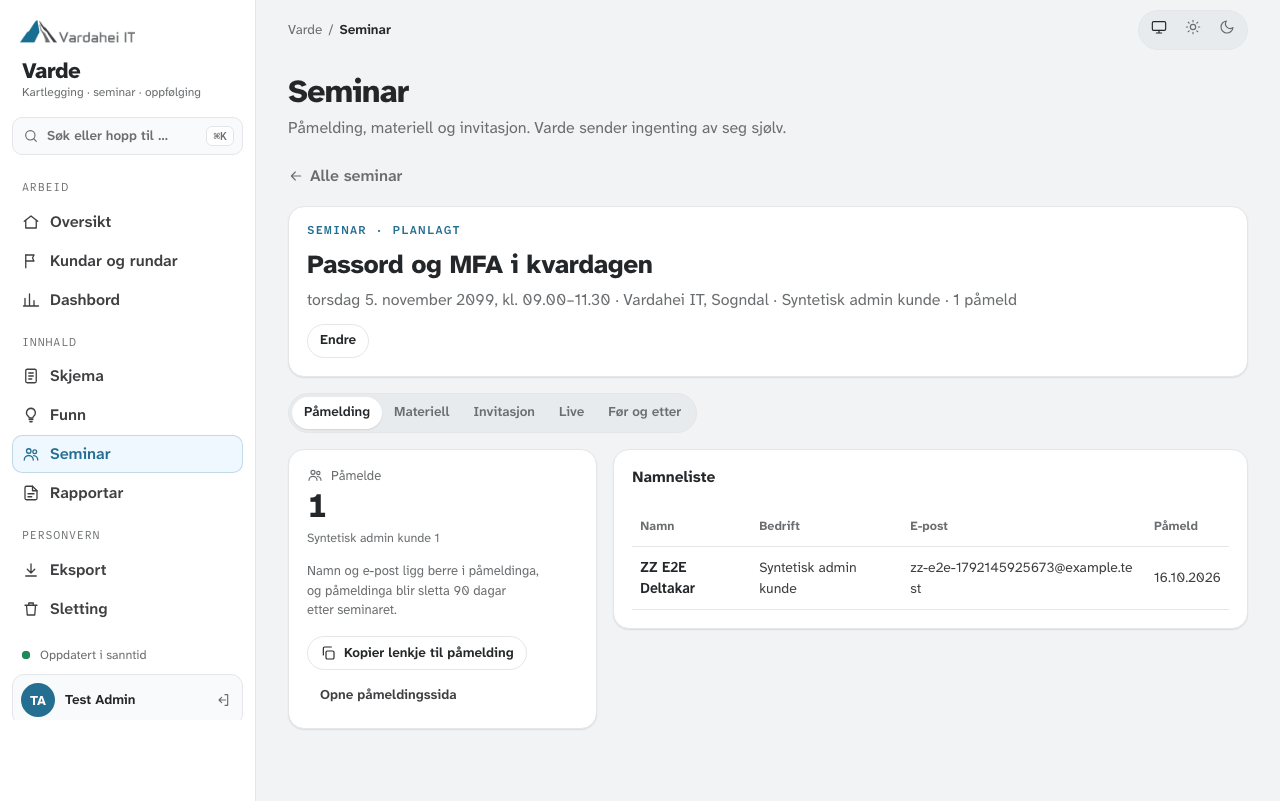
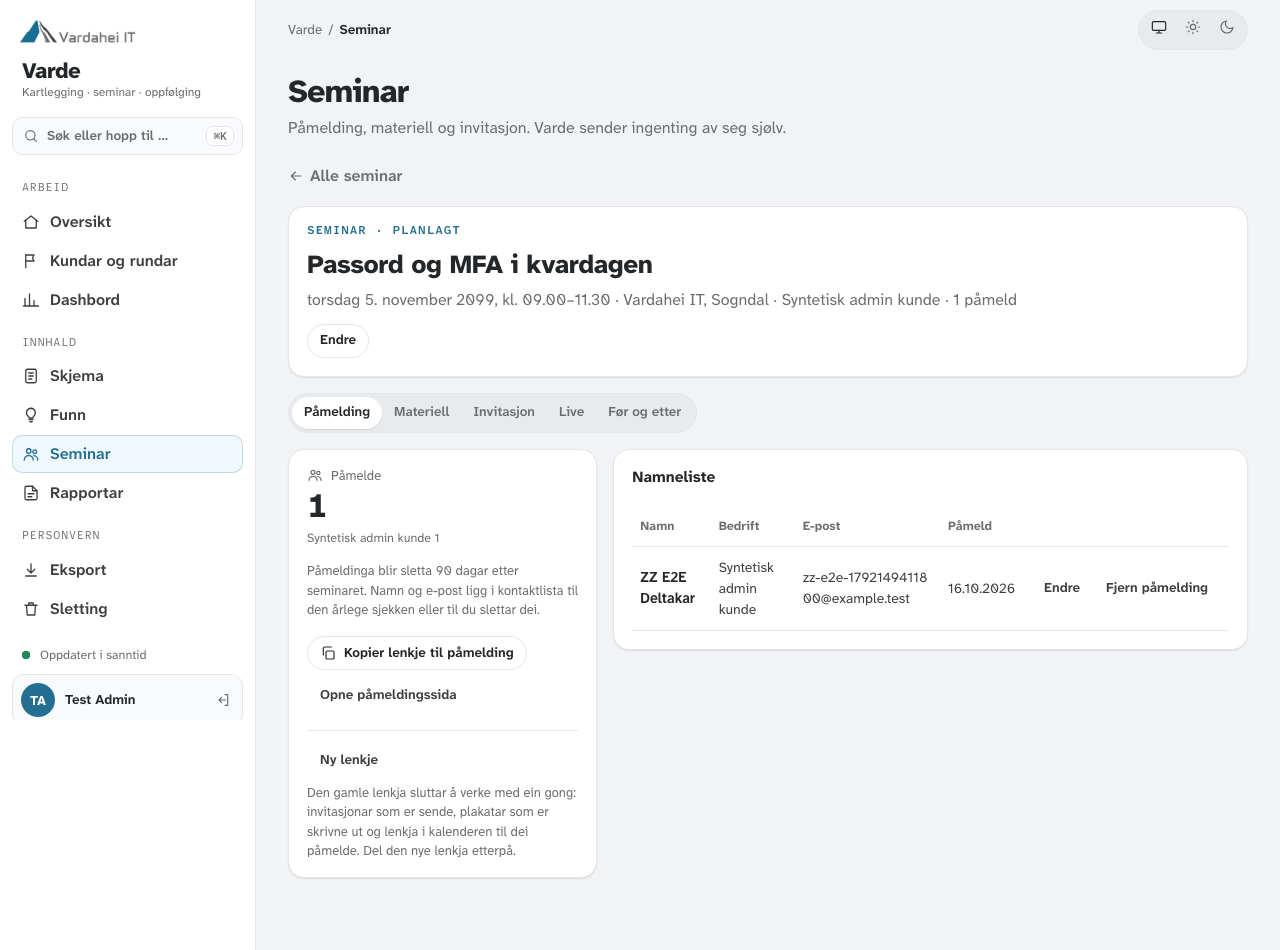
docs 3a: evidence after the acceptance remarks, checklist and context map rows, admin screenshot
Commits of the remarks, what the public form may and may not change, consent on the
registration, «Ny lenkje», 20 registrations per IP, «Fjern påmelding», audited dry runs, the
in-place migration, new nynorsk strings for review and the final local run on fresh databases.
The decision against sending e-mail is dated 11.10 in docs/BESLUTNINGER.md.

diff --git a/docs/varde/evidence/stage-3/3a-evidence.md b/docs/varde/evidence/stage-3/3a-evidence.md
@@ -10,55 +10,69 @@
 | 3.2 | `09df382` | Страница `/s?c=` (второй вход сборки runner), публичный API (просмотр, регистрация, ICS), квоты, honeypot, логи; ICS по RFC 5545 (ical.js в тестах); раздел «Seminar» в админке с «Påmelding» |
 | 3.3 | `c5c7760` | Миграция `20261016130000_seminar_materials` (down.sql); материалы-ссылки в админке и на странице после семинара |
 | 3.10 | `0c7f5c7` | «Invitasjon»: письмо nn/en, ссылка, ICS, A4-плакат с QR, zip «Last ned invitasjon»; AuditLog без кода |
-| закрытие | этот коммит | `invariants:3a`, обход маршрутов по участникам, e2e admin и страницы, правки вёрстки «Påmelding», строки REVIEW-CHECKLIST, AI_CONTEXT_MAP, RETENTION.md, этот evidence, скриншоты |
+| закрытие | `6993610` | `invariants:3a`, обход маршрутов по участникам, e2e admin и страницы, правки вёрстки «Påmelding», строки REVIEW-CHECKLIST, AI_CONTEXT_MAP, RETENTION.md, этот evidence, скриншоты |
+| приёмка (оркестратор) | `6cd8d08` | Публичная форма не переписывает имя, компанию и клиента известного контакта |
+| приёмка, п. 1 | `935ce25` | «Påmelding»: регистрация — 90 дней, имя и e-post — в списке контактов до ежегодной проверки или удаления |
+| приёмка, п. 2 | `cd67776` | Обход маршрутов распаковывает zip и читает каждый файл; мутация «участник в zip» роняет тест |
+| приёмка, п. 3 | `9b26507` | Согласие на регистрации; форма не меняет известный контакт совсем; правка контакта админом (AuditLog) |
+| приёмка, п. 4 | `f6d57e9` | «Ny lenkje» (история hash, «Lenkja er bytt ut», AuditLog); компании на публичной странице по slug |
+| приёмка, п. 5 | `1615567` | 20 регистраций с IP за 10 минут; «Fjern påmelding» (AuditLog), контакт остаётся |
+| приёмка, п. 6 | `854b2ed` | Dry-run удаления по запросу пишет AuditLog (участник и ответы) |
+| evidence | этот коммит | Этот evidence после замечаний, REVIEW-CHECKLIST, AI_CONTEXT_MAP, скриншот админки |
 
 ## Что сделано
 
 **3.1 Сущности и хранение.**
 - Seminar: тема nn/en, начало и конец (instant в базе, Europe/Oslo везде на экране, в тексте и ICS), место, формат `onsite | digital`, клиенты (`seminar_client`), `required_languages ⊆ {nn, en}` с nn, код ссылки — 128 бит base64url, поиск по sha256 (как коды раундов, ADR-009), `sequence` для обновлений в календаре, nullable `round_before/live/after` (заполнит 3c).
-- Contact: имя, e-post (trim + lower case, CHECK, unique), компания (имя клиента или свой текст) и `client_id?`, `role_at_client?`, версия и время согласия, `created_at`, `last_confirmed_at`, `review_flagged_at`.
-- Registration: семинар, контакт, язык, `created_at`; unique (семинар, контакт) = «семинар + e-post».
+- Contact: имя, e-post (trim + lower case, CHECK, unique), компания (имя клиента или свой текст) и `client_id?`, `role_at_client?`, версия и время согласия, с которыми контакт создан, `created_at`, `last_confirmed_at`, `review_flagged_at`.
+- Registration: семинар, контакт, язык, версия и время согласия этой регистрации, `created_at`; unique (семинар, контакт) = «семинар + e-post».
+- Публичная форма создаёт контакт, но известный контакт не меняет совсем: ни имя, компанию и клиента, ни согласие, `last_confirmed_at` и отметку проверки (вход без логина, e-post не подтверждается). Имя и компанию (или клиента) правит админ в «Namneliste» — `PUT /api/admin/contacts/:id`, AuditLog `seminars.contact.update` с именами полей без значений; новый год для контакта начинает только «Stadfest». «Fjern påmelding» удаляет одну регистрацию (AuditLog `seminars.registration.remove`), контакт остаётся до проверки или «Sletting».
 - Action (name, description, seminar_topic) и связь FindingRule → Action — таблица `finding_rule_action (rule_key → action_id)` рядом с неизменяемыми версиями (решение ниже).
 - FindingStatus: `open | in_seminar | closed`, `seminar_id?`, кто и когда; нет строки = `open`. Привязка Finding к семинару (`POST /api/admin/seminars/:id/findings`) ставит `in_seminar` с AuditLog `findings.status` — критерий приёмки 3.1 (тест `seminars.test.ts`).
 - Инвариант ADR-021: у `response` один FK (`round_client`), нет колонок и триггеров про контакт, регистрацию, семинар; у `contact`/`registration` нет ссылок на ответы.
 - Contact и Registration читает и пишет только `modules/privacy/participants.ts` (`PrivacyService.participants`); правило `varde/privacy-only-release` получило второй allow-list (модели `contact`, `registration`, `include`/`select`, raw SQL), selfcheck ловит обход.
-- Retention (ежедневная задача 1.31, одна транзакция, dry-run, идемпотентно): регистрации удаляются через 90 дней после конца семинара; контакты по таймеру не удаляются — через год после последнего подтверждения задача ставит `review_flagged_at`; админ видит отмеченных («Kontaktar» в разделе «Seminar», чтение под AuditLog) и нажимает «Stadfest» или удаляет. Журнал удаления по сроку — запись AuditLog `retention.run` со счётчиками всех классов, если что-то удалено или отмечено.
-- Удаление по запросу: область `participant` в `retention.forget` и на «Sletting» («Deltakar på seminar (e-post)»): по нормализованному e-post удаляется контакт и все его регистрации; DeletionRequest с `scope_ref = {contact: <id>}` и ParticipantTombstone (id контакта, число регистраций) — без имени и e-post; AuditLog `retention.forget` со счётчиками; `ledger apply-db` после restore удаляет контакт снова.
+- Retention (ежедневная задача 1.31, одна транзакция, dry-run, идемпотентно): регистрации удаляются через 90 дней после конца семинара; контакты по таймеру не удаляются — через год после создания или последнего «Stadfest» задача ставит `review_flagged_at`; админ видит отмеченных («Kontaktar» в разделе «Seminar», чтение под AuditLog) и нажимает «Stadfest» или удаляет. Журнал удаления по сроку — запись AuditLog `retention.run` со счётчиками всех классов, если что-то удалено или отмечено.
+- Удаление по запросу: область `participant` в `retention.forget` и на «Sletting» («Deltakar på seminar (e-post)»): по нормализованному e-post удаляется контакт и все его регистрации; DeletionRequest с `scope_ref = {contact: <id>}` и ParticipantTombstone (id контакта, число регистраций) — без имени и e-post; AuditLog `retention.forget` со счётчиками; `ledger apply-db` после restore удаляет контакт снова. Dry-run (и для ответов) пишет AuditLog `retention.forget.preview`: кто и счётчики, без e-post, инициалов, клиента и основания.
 
 **3.2 Регистрация.**
 - `/s?c=<код>` — вторая страница сборки runner (Vite multi-page): те же токены Vardestien, шрифты, та же CSP и заголовки, что `/r`; внешних запросов нет (e2e это проверяет). Языки — `required_languages` семинара, нюношк по умолчанию; переключатель как в runner.
-- Поля: имя, компания (радиокнопки клиентов семинара + «Anna bedrift» со своим текстом), e-post, согласие (короткий текст у галочки, полный — по «Les meir …»; версия `samtykke-v1` приходит с сервера и сохраняется у контакта; тест фиксирует hash текстов версии). Скрытое поле «Nettstad» — honeypot.
+- Поля: имя, компания (радиокнопки клиентов семинара + «Anna bedrift» со своим текстом), e-post, согласие (короткий текст у галочки, полный — по «Les meir …»; версия `samtykke-v1` приходит с сервера и сохраняется на регистрации (и у контакта, если он создан сейчас); тест фиксирует hash текстов версии). Компанию выбирают по slug клиента — id базы публичный API не отдаёт. Скрытое поле «Nettstad» — honeypot.
 - «Du er påmeld»: тема, дата, место, «Legg i kalenderen» (ICS), фокус на заголовок; переход — подъём контента (useEnter), первый экран после загрузки стоит на месте, как в опроснике.
-- API без сессии, код только в `Authorization: Bearer` (никогда в query сервера): `GET /api/public/seminar`, `POST /api/public/seminar/registrations`, `GET /api/public/seminar/calendar`. Лимиты из `config/quotas.json`: `seminar_registrations_max` 300 на семинар (счёт в базе под блокировкой строки семинара, до проверки повтора), окна 10 минут `seminar_per_ip_per_10min` 100 и `seminar_global_per_10min` 300 (память процесса). Повтор с тем же e-post и honeypot — тот же ответ `{registered: true}` без записи; неверный ввод — сообщение по полю, без сведений о других людях. Ошибки Prisma в лог не попадают (503 с общим текстом). Успешные запросы `/s` и `/api/public/*` не пишутся в лог, ошибки — только путь и статус.
+- API без сессии, код только в `Authorization: Bearer` (никогда в query сервера): `GET /api/public/seminar`, `POST /api/public/seminar/registrations`, `GET /api/public/seminar/calendar`. Лимиты из `config/quotas.json`: `seminar_registrations_max` 300 на семинар (счёт в базе под блокировкой строки семинара, до проверки повтора), окна 10 минут `seminar_per_ip_per_10min` 20 (офис за одним NAT укладывается; один IP больше не заполняет семинар за полчаса) и `seminar_global_per_10min` 300 (память процесса). Повтор с тем же e-post и honeypot — тот же ответ `{registered: true}` без записи; неверный ввод — сообщение по полю, без сведений о других людях. Ошибки Prisma в лог не попадают (503 с общим текстом). Успешные запросы `/s` и `/api/public/*` не пишутся в лог, ошибки — только путь и статус.
 - ICS: VCALENDAR/VEVENT, UID `seminar-<id>@<host>`, DTSTAMP, DTSTART/DTEND в UTC, SEQUENCE, SUMMARY, LOCATION, DESCRIPTION со ссылкой, URL; CRLF, folding по 75 октетам без разрыва UTF-8, экранирование. Тесты разбирают файл ical.js (dev-зависимость, точная версия 2.2.1).
 
 **3.3 Материалы.** Заголовок и http(s)-ссылка (CHECK в базе), без загрузки файлов. Админ добавляет и убирает (AuditLog). `/s?c=` показывает материалы только после конца семинара — всем, у кого есть ссылка; до конца API их не отдаёт.
 
 **3.10 Пакет приглашения.** Вкладка «Invitasjon»: письмо на нюношке (и английском, если он есть у семинара) — редактируемое, «Kopier tekst», ссылка с «Kopier lenkje», «Last ned invitasjon» (zip: `LES-MEG.txt`, `invitasjon.txt` / `invitation-en.txt`, `lenkje-til-pamelding.txt`, `seminar.ics` / `seminar-en.ics`, `plakat.html` / `plakat-en.html`), «Kalenderfil (ICS)», «Opne plakaten (A4)» (`/admin/poster/seminar/:id`, узкая CSP плакатов раундов). QR строит `qrcode-generator` 1.4.4 (уже был в зависимостях), логотип — data URI, ничего не грузится снаружи. Varde ничего не отправляет; скачивание — AuditLog `seminars.invitation` с префиксом hash кода.
 
-**Админка.** Раздел «Seminar» в группе «Innhald» (иконка `folk`, после «Funn»): список (ближайшие сверху, потом прошедшие; дата, тема, время, место, клиенты, «N påmelde»), «Nytt seminar», карточка «Kontaktar» (ежегодная проверка), страница семинара с «Endre» и вкладками «Påmelding» (число по клиентам, ссылка, «Vis namnelista» — список по запросу, AuditLog), «Materiell», «Invitasjon», «Live» и «Før og etter» — «Kjem i neste steg». SSE-тема `seminars` обновляет счётчики сразу после регистрации.
+**Админка.** Раздел «Seminar» в группе «Innhald» (иконка `folk`, после «Funn»): список (ближайшие сверху, потом прошедшие; дата, тема, время, место, клиенты, «N påmelde»), «Nytt seminar», карточка «Kontaktar» (ежегодная проверка), страница семинара с «Endre» и вкладками «Påmelding» (число по клиентам, ссылка, «Ny lenkje» в два нажатия с предупреждением, «Vis namnelista» — список по запросу под AuditLog, в строке «Endre» контакта и «Fjern påmelding»), «Materiell», «Invitasjon», «Live» и «Før og etter» — «Kjem i neste steg». SSE-тема `seminars` обновляет счётчики сразу после регистрации.
+
+**Ny lenkje (ADR-009).** `POST /api/admin/seminars/:id/reissue`: новый код, старый hash — в `revoked_seminar_code`; старая ссылка, отправленные приглашения, плакаты и ссылки в календарях участников сразу дают «Lenkja er bytt ut» (отдельный экран на `/s`). AuditLog `seminars.code.reissue` с префиксами hash, без кода.
 
 ## Проверки (локально, Node 25, Postgres `varde-dev-postgres-1`, базы `varde_3a`, `varde_e2e_3a`, `varde_e2e_admin_3a`)
 
-- `pnpm check` — exit 0: api 164 (25 файлов), admin 35, runner 92, eslint-rules 70, schema 59, rules 81, ui 18, docs 23 (+1 skipped), invariants 16, parity 17, eval 50 (+2 skipped), convert 13, context-budget 6; lint и build всех пакетов.
-- `pnpm budget` — 561 файл, 0 больше 700; `pnpm budget:selfcheck`, `pnpm lint:privacy:selfcheck` (теперь и обход `registration`) — ok; `pnpm secrets` — утечек нет.
-- Integration целиком (`varde_3a`, под `lockf /private/tmp/varde-e2e.lock`): 58 файлов, 378 тестов зелёные; 2 файла пропущены по окружению, как и раньше; `forget-restore` отдельно с `VARDE_RESTORE_DOCKER=1` (как в CI) — зелёный.
+Итоговый прогон — после замечаний приёмки, на последнем коммите кода `854b2ed`, все три базы пересозданы пустыми (миграция правлена на месте):
+
+- `pnpm check` — exit 0: api 164, admin 38, runner 93, eslint-rules 70, schema 59, rules 81, ui 18, docs 23 (+1 skipped), invariants 16, parity 17, eval 50 (+2 skipped), convert 13, context-budget 6; lint и build всех пакетов.
+- `pnpm budget` — 562 файла, 0 больше 700; `pnpm budget:selfcheck`, `pnpm lint:privacy:selfcheck` (и обход `registration`) — ok; `pnpm secrets` — утечек нет.
+- Integration целиком на свежей `varde_3a` с `VARDE_RESTORE_DOCKER=1` (как в CI), под `lockf /private/tmp/varde-e2e.lock`: 59 файлов, 383 теста зелёные; пропущен только `cutover/rehearsal` (нужна `VARDE_REHEARSAL_DATABASE`), как и раньше.
 - `pnpm invariants:3a` — 7/7 ok; `pnpm invariants:5` — 5/5 ok; `pnpm invariants:2a` — 5/5 ok.
-- e2e admin — 38/38 (было 37: плюс `seminar.spec.ts`), e2e runner — 61/61 (было 58: плюс `seminar.spec.ts` ×3); оба под `lockf` на своих базах. Первый полный прогон admin поймал два заголовка «Seminar» на странице (`shell.spec.ts`, strict mode) — заголовок карточки стал «Alle seminar»; итоговые полные прогоны — после всех правок кода.
+- e2e admin — 38/38 (сценарий семинара теперь с «Ny lenkje»: старая ссылка показывает «Lenkja er bytt ut», и с правкой контакта), e2e runner — 61/61; оба под `lockf` на свежих базах.
+- До замечаний: первый полный прогон admin поймал два заголовка «Seminar» на странице (`shell.spec.ts`, strict mode) — заголовок карточки стал «Alle seminar».
 - Размер runner: весь JS 64 КБ gzip (лимит 100), страница семинара — 5 КБ своего JS плюс общий чанк. Каскад CSS опросника после разделения сборки на две страницы побайтно тот же (сравнение собранного CSS до и после).
 - Движение (кадры через requestAnimationFrame, 360 px): первый экран после загрузки не двигается и не мерцает; «Les meir» раскрывается монотонно (высота 0 → 534, ни одного кадра назад); «Meld meg på» → «Sender …» → «Du er påmeld»: значок и текст въезжают с 26 px до 0 без рывков, прокрутка уходит наверх одним шагом, потому что короткий экран сменяет длинную форму; фокус — на «Du er påmeld».
-- Мутации: без моделей участников в lint правило пропускает `registration`/`contact` в отчёте и в `privacy.service` — 3 теста правила падают; со счётчиками по свободному тексту компании обход маршрутов падает (так и было найдено, решение 5 ниже); без приведения e-post к нижнему регистру повтор с адресом в другом регистре и удаление по такому адресу не проходят — тесты «repeat» и «Deltakar» падают.
+- Мутации: без моделей участников в lint правило пропускает `registration`/`contact` в отчёте и в `privacy.service` — 3 теста правила падают; со счётчиками по свободному тексту компании обход маршрутов падает (так и было найдено, решение 5 ниже); без приведения e-post к нижнему регистру повтор с адресом в другом регистре и удаление по такому адресу не проходят — тесты «repeat» и «Deltakar» падают; данные участника, положенные в zip приглашения, обход маршрутов теперь находит и падает (по замечанию приёмки раньше он смотрел сжатые байты zip).
 - CI не запускался: GitHub Actions заблокирован лимитом расходов, push не делался.
 
 ## Отклонения и решения
 
 1. **FindingRule → Action** — таблица `finding_rule_action (rule_key PK → action_id)`, а не `action_id` в definition: версии правил неизменяемы (триггер), связь действует на все версии ключа, её смена не пишет новую версию (AuditLog `findings.rule_action`). UI для Action и привязки Finding в 3a нет — только API и тесты; естественное место — «Funn» и 4.1.
 2. **Участники в модуле privacy.** Требование «выдача строк только через privacy» распространено на Contact и Registration: `participants.ts` — единственный файл с доступом (lint с отдельным allow-list, чтобы этот файл не получил доступ к Response). Отчёты, экспорт, архив, дашборд, ассистент и будущий Atlas физически не могут читать участников.
-3. **«Семинар + e-post»** = unique (seminar, contact) + unique `contact.email`. Контакт общий для семинаров: новая регистрация того же человека на другой семинар обновляет имя, компанию и согласие; повтор на тот же семинар ничего не меняет.
+3. **«Семинар + e-post»** = unique (seminar, contact) + unique `contact.email`. Контакт общий для семинаров. Публичная форма известный контакт не меняет никак (замечание приёмки): ни имя, компанию и клиента, ни согласие, `last_confirmed_at` и отметку проверки; согласие каждой регистрации хранится на ней самой. Повтор на тот же семинар — тот же ответ без записи. Опечатку в имени или компании исправляет админ («Endre» в «Namneliste»).
 4. **`role_at_client`** есть в модели (ARCHITECTURE), но на публичной странице не спрашивается: в задании четыре поля, минимизация данных.
-5. **Компания хранится у контакта**, не у регистрации (модель ARCHITECTURE). В счётчиках раздела — только клиенты Varde, введённые участниками названия идут как «andre»: всё, что ввёл человек, видно только в списке под AuditLog. Если человек позже записался от другой компании, старые семинары считают его по новой.
+5. **Компания хранится у контакта**, не у регистрации (модель ARCHITECTURE). В счётчиках раздела — только клиенты Varde, введённые участниками названия идут как «andre»: всё, что ввёл человек, видно только в списке под AuditLog. Если человек позже записался от другой компании, контакт остаётся с прежней (форма его не меняет), пока админ не поправит.
 6. **Журнал удаления по сроку** — AuditLog `retention.run` со счётчиками (у существующих классов журнала не было; tombstone для таймерных классов не пишутся — ADR-017: после restore задача удаляет те же строки снова). AuditLog живёт 12 месяцев.
-7. **Ежегодная проверка контактов**: в `retention.json` у `contact` добавлено `review: yearly`; отметка ставится через год после `last_confirmed_at` (создание, новая регистрация или «Stadfest»).
+7. **Ежегодная проверка контактов**: в `retention.json` у `contact` добавлено `review: yearly`; отметка ставится через год после `last_confirmed_at` (создание контакта или «Stadfest»); новая регистрация и правка админом её не снимают.
 8. **Регистрация открыта до конца семинара** (`ends_at`); после — 410 «Påmeldinga er stengd.» и фаза «Seminaret er over» с материалами.
 9. **Календарь на публичной странице** скачивается `fetch` с bearer и сохраняется из памяти (blob): код не попадает в URL, который видит сервер. На iPhone Safari файл, скорее всего, уйдёт в «Файлы», а не сразу в «Календарь» — не проверено на устройстве.
 10. **ICS в UTC** без VTIMEZONE (разрешено заданием); Outlook и телефоны показывают местное время.
@@ -67,11 +81,14 @@
 13. **Время семинара в форме** — один день (дата, «Frå», «Til»); многодневный семинар модель умеет, форма — нет.
 14. Тестовая поддержка `resetImports` теперь удаляет и `participant_tombstone` (она чистит все запросы удаления).
 15. **Плакат** — по адресу `/admin/poster/seminar/:id` под исключением CSP плакатов раундов в `admin/static.ts`.
+16. **Миграция `20261016120000_seminars` правлена на месте** после приёмки (она ещё не выкачена): согласие на `registration`, таблица `revoked_seminar_code`. `down.sql` дополнен, `migrations.test` зелёный; все локальные базы пересозданы с нуля.
+17. **История заменённых кодов семинара** (`revoked_seminar_code`) — только hash, без персональных данных, живёт вместе с семинаром (как `revoked_round_code` у раундов).
+18. **Dry-run удаления ответов** тоже пишет `retention.forget.preview` — это одна запись в той же транзакции, дёшево; дополнительно проверено в `forget.test.ts`.
 
 ## Приватность и риски
 
 - Contact и Registration — персональные данные (ADR-017): только админ-сессия; список семинара и список «на проверку» пишут AuditLog `privacy.participants` (кто, семинар, число) в той же транзакции; в AuditLog, журнале удалений и логах нет имён и e-post (тесты). Обход всех зарегистрированных маршрутов с синтетическим участником (`3a-participants.test.ts`) находит его только в двух каналах.
-- Нет подтверждения e-post (почта не отправляется по решению 11.10): человек со ссылкой может записать чужой адрес; при записи на другой семинар — переписать имя и компанию существующего контакта. Последствия малы, но риск есть.
+- Нет подтверждения e-post (автоотправки почты нет — решение 11.10 в `docs/BESLUTNINGER.md`, строка «автоотправку через Microsoft Graph не делаем»): человек со ссылкой может записать на семинар чужой адрес. Если адрес новый — появится контакт с введёнными данными; если известный — меняется только список регистраций, сам контакт форма не трогает. Лишнюю регистрацию админ убирает «Fjern påmelding», контакт — «Sletting».
 - Основание «Grunngjeving» при удалении — свободный текст и хранится в журнале бессрочно; страница просит не писать туда имя и e-post.
 - Разница во времени ответа между новой регистрацией и повтором (лишние записи в базу) — незначительный побочный канал.
 - Реестр обработки (`docs/varde/personvern/behandlingsregister-varde.md`) не содержит записи о регистрации на семинары — нужен текст.
@@ -83,7 +100,8 @@
 - **Согласие `samtykke-v1`** (`varde/apps/api/src/modules/seminars/consent.ts`): короткий текст «Eg samtykkjer i at Vardahei IT lagrar namnet, bedrifta og e-postadressa mi, slik at dei kan halde styr på påmeldinga og invitere meg til seinare seminar.» и пять пунктов полного текста (что храним и зачем; регистрация удаляется через 90 дней; контакт — пока есть сотрудничество и нет просьбы удалить, раз в год проверяем; не попадает в отчёты и не передаётся; посмотреть или удалить — post@vardahei.no). Изменение текста = новая версия.
 - **Письмо, плакат, LES-MEG, ICS** (`varde/apps/api/src/modules/seminars/invitation.ts`, `public-seminar.service.ts`): «Vardahei IT inviterer til seminaret «…».», «Meld deg på her, det tek eitt minutt:», «Lenkja går til …, så du kan trygt opne ho. Når du har meldt deg på, kan du leggje seminaret inn i kalenderen. Etter seminaret finn du lysark og lenkjer på same sida.», «Velkomen!»; «Opne kameraet på mobilen», «Sikt på ruta», «Meld deg på, det tek eitt minutt», «Seminar for …», «Spørsmål?»; строки `LES-MEG.txt`; описание в календаре «Seminar frå Vardahei IT. Meld deg på her: …» и «… Etter seminaret finn du lysark og lenkjer på påmeldingssida: …».
 - **Админка**: введение раздела «Påmelding, materiell og invitasjon. Varde sender ingenting av seg sjølv.», «Alle seminar», «Nytt seminar», «Ingen seminar enno.», «Planlagt», «Gjennomført», «N påmeld / påmelde», «Kontaktar», «… ventar på den årlege sjekken.», «Kontaktar blir ikkje sletta av seg sjølv. Ein gong i året sjekkar de at samarbeidet og samtykket framleis gjeld. Slett ein kontakt under «Sletting».», «Vis kontaktane», «sist sjekka …», «Stadfest»; форма «Tema», «Språk på påmeldingssida», «Tema på engelsk», «Dato», «Frå», «Til», «Norsk tid. Påmeldinga stengjer når seminaret er slutt.», «På staden», «Stad», «Kvar (til dømes Teams)», «Kundar», «Dei som melder seg på, kan velje mellom desse eller skrive inn ei anna bedrift.», «Lag seminaret», «Lagre endringane»; вкладки и карточки «Påmelde», «andre N», «Namn og e-post ligg berre i påmeldinga, og påmeldinga blir sletta 90 dagar etter seminaret.», «Kopier lenkje til påmelding», «Opne påmeldingssida», «Namneliste», «Vis namnelista», «Lista har namn og e-post. Kvar gong nokon opnar ho, blir det skrive i loggen.», «Ingen har meldt seg på enno.», «Kjem i neste steg» с пояснениями к «Live» и «Før og etter», «Synleg for deltakarane», «Synleg etter seminaret», «Ikkje noko materiell enno.», «Deltakarane finn lysark og lenkjer på påmeldingssida når seminaret er over. Alle som har lenkja til sida, ser dei, så legg ikkje ut noko som ikkje kan delast.», «Legg til materiell», «Teksten er skriven for at du eller leiaren hos kunden sender han frå eigen e-post eller i Teams. Varde sender ingenting sjølv.», «Tekst til dei som skal inviterast», «Pakken har teksten, lenkja, kalenderfila og ein A4-plakat med QR-kode …», «Last ned invitasjon», «Kalenderfil (ICS)», «Opne plakaten (A4)», «Plakaten opnar i ei ny fane, klar til utskrift. QR-koden er laga i Varde og går rett til påmeldinga.»; «Sletting»: «Deltakar på seminar (e-post)», «Kontakten og alle påmeldingane til personen blir sletta. Skriv ikkje namn eller e-post i grunngjevinga.», «Kontakten og N påmelding(ar) blir sletta.», «Fann ingen deltakar med den e-postadressa.», «Deltakaren er sletta.»
-- **Ошибки API**: «Lenkja er ikkje gyldig.», «Påmeldinga er stengd.», «Påmeldinga kom ikkje fram. Prøv igjen om litt.», «Seminaret må slutte etter at det byrjar.», «Skriv temaet på engelsk òg, eller ta bort engelsk.», «Teksten har teikn som ikkje kan brukast. Skriv han på nytt.», «Lenkja må byrje med https:// (eller http://).», «Adressa til Varde (PUBLIC_URL) er ikkje sett opp.» и короткие «… finst ikkje.».
+- **После приёмки**: «Påmeldinga blir sletta 90 dagar etter seminaret. Namn og e-post ligg i kontaktlista til den årlege sjekken eller til du slettar dei.»; «Ny lenkje», «Stadfest ny lenkje», «Den gamle lenkja sluttar å verke med ein gong: invitasjonar som er sende, plakatar som er skrivne ut og lenkja i kalenderen til dei påmelde. Del den nye lenkja etterpå.», «Ny lenkje er laga»; «Endre», «Endre kontakten», «Kunde», «Lagre kontakten», «Endringa gjeld kontakten i alle seminar. E-posten kan ikkje endrast.», «Vel ein kunde eller skriv namnet på bedrifta.»; «Fjern påmelding», «Stadfest», «Fjern påmeldinga til …», «Ingen er påmelde no.»; на странице `/s` — «Lenkja er bytt ut», «Det er laga ei ny lenkje til dette seminaret. Spør den som sende deg invitasjonen om den nye, eller ta kontakt med oss.» (и английский); ошибки «Påmeldinga finst ikkje.», «Kunden finst ikkje.».
+- **Ошибки API**: «Lenkja er ikkje gyldig.», «Lenkja er bytt ut. Spør den som sende deg ho om den nye.» (как у раундов), «Påmeldinga er stengd.», «Påmeldinga kom ikkje fram. Prøv igjen om litt.», «Seminaret må slutte etter at det byrjar.», «Skriv temaet på engelsk òg, eller ta bort engelsk.», «Teksten har teikn som ikkje kan brukast. Skriv han på nytt.», «Lenkja må byrje med https:// (eller http://).», «Adressa til Varde (PUBLIC_URL) er ikkje sett opp.» и короткие «… finst ikkje.».
 
 ## Открытые вопросы для Oleksandr
 
@@ -94,4 +112,4 @@
 
 ## Скриншоты
 
-`docs/varde/evidence/stage-3/3a/`: `pamelding-360-nn-light.png` (страница регистрации, телефон, нюношк), `pamelding-1280-en-dark.png` (ноутбук, английский, тёмная тема), `pameld-360-nn-light.png` («Du er påmeld»), `admin-pamelding-1280-light.png` (вкладка «Påmelding» с открытой «Namneliste»). Все — из e2e на синтетических данных.
+`docs/varde/evidence/stage-3/3a/`: `pamelding-360-nn-light.png` (страница регистрации, телефон, нюношк), `pamelding-1280-en-dark.png` (ноутбук, английский, тёмная тема), `pameld-360-nn-light.png` («Du er påmeld»), `admin-pamelding-1280-light.png` (вкладка «Påmelding» с «Ny lenkje» и открытой «Namneliste» — в строке «Endre» и «Fjern påmelding»; снят заново после замечаний). Все — из e2e на синтетических данных.

diff --git a/docs/varde/REVIEW-CHECKLIST.md b/docs/varde/REVIEW-CHECKLIST.md
@@ -159,9 +159,11 @@
 | --- | --- |
 | Response не ссылается на Contact, Registration и Seminar: единственный FK `round_client`, нет таких колонок и триггеров; Contact и Registration не ссылаются на Response | `varde/apps/api/test/seminars/seminars.test.ts`, `varde/apps/api/test/invariants/3a-participants.test.ts` |
 | Contact и Registration читает и пишет только `modules/privacy/participants.ts` (`PrivacyService.participants`): lint `varde/privacy-only-release` со своим allow-list отклоняет модели, `include`/`select` и raw SQL `contact`/`registration` в остальных файлах | `varde/tools/eslint-rules/test/privacy-only-release.test.ts`, `pnpm lint:privacy:selfcheck` |
-| Имена, компании (введённые участником) и e-post выходят только через список семинара и список «на ежегодную проверку»: админ-сессия, AuditLog `privacy.participants` в той же транзакции; обход всех маршрутов (отчёты, экспорт, архив, дашборд, публичная страница) их не находит; в счётчиках по семинару — только клиенты Varde и «andre» | `varde/apps/api/test/invariants/3a-participants.test.ts`, `varde/apps/api/test/seminars/participants.test.ts` |
-| Регистрация: повтор с тем же e-post и honeypot дают тот же ответ без записи; лимит на семинар проверяется до проверки повтора; ошибки не говорят, зарегистрирован ли человек; в логах нет имён, e-post и кода; успешные запросы `/s` и `/api/public/*` не пишутся в лог | `varde/apps/api/test/seminars/registration.test.ts`, `varde/apps/api/test/runner/static.test.ts` |
-| Код ссылки семинара — 128 бит, ищется по hash, только в Authorization; в AuditLog только префикс hash | `seminars.test.ts`, `invitation.test.ts` |
+| Имена, компании (введённые участником) и e-post выходят только через список семинара и список «на ежегодную проверку»: админ-сессия, AuditLog `privacy.participants` в той же транзакции; обход всех маршрутов (отчёты, экспорт, архив, дашборд, публичная страница; zip распаковывается и читается по файлам) их не находит; в счётчиках по семинару — только клиенты Varde и «andre» | `varde/apps/api/test/invariants/3a-participants.test.ts`, `varde/apps/api/test/seminars/participants.test.ts` |
+| Регистрация: повтор с тем же e-post и honeypot дают тот же ответ без записи; лимит на семинар проверяется до проверки повтора; окно 20 регистраций с IP за 10 минут; ошибки не говорят, зарегистрирован ли человек; в логах нет имён, e-post и кода; успешные запросы `/s` и `/api/public/*` не пишутся в лог | `varde/apps/api/test/seminars/registration.test.ts`, `varde/apps/api/test/runner/static.test.ts` |
+| Публичная форма не меняет известный контакт: ни имя, компанию и клиента, ни согласие, `last_confirmed_at` и отметку ежегодной проверки; согласие (версия и время) хранится на регистрации; отметку снимает только «Stadfest»; имя и компанию правит админ (AuditLog с именами полей, без значений); «Fjern påmelding» удаляет одну регистрацию (AuditLog), контакт остаётся | `varde/apps/api/test/seminars/participants.test.ts`, `varde/apps/admin/test/seminar.test.tsx` |
+| Код ссылки семинара — 128 бит, ищется по hash, только в Authorization; «Ny lenkje» (два нажатия, предупреждение о плакатах и календарях) — старый код сразу даёт «Lenkja er bytt ut» (история hash), AuditLog с префиксами hash; публичный API выбирает компанию по slug, без id базы | `registration.test.ts`, `seminars.test.ts`, `invitation.test.ts` |
+| Dry-run удаления по запросу (участник и ответы) пишет AuditLog `retention.forget.preview`: кто и счётчики, без e-post, инициалов, клиента и основания | `participants.test.ts`, `varde/apps/api/test/retention/forget.test.ts` |
 | Retention: регистрации удаляются через 90 дней после конца семинара (dry-run, идемпотентно, журнал `retention.run` со счётчиками); контакты по таймеру не удаляются, раз в год получают отметку; удаление по запросу (область `participant`, по e-post) — запись в журнале удалений и tombstone только с id контакта, AuditLog, `ledger apply-db` удаляет восстановленного контакта | `participants.test.ts`, `varde/apps/api/test/retention/jobs.test.ts` |
 | Статус Finding меняется при привязке к семинару (`in_seminar`), строки Finding и версии правил не меняются; связь правила с Action — по ключу, без новой версии | `seminars.test.ts` |
 | Материал — только http(s)-ссылки (CHECK), на странице — только после конца семинара | `varde/apps/api/test/seminars/materials.test.ts` |

diff --git a/docs/varde/AI_CONTEXT_MAP.md b/docs/varde/AI_CONTEXT_MAP.md
@@ -36,7 +36,7 @@
 | Архив раунда: экспорт и restore (5.2) | `varde/apps/api/src/modules/exports/round-archive.ts`, `varde/apps/api/src/modules/exports/round-archive.service.ts`, `varde/apps/api/src/modules/privacy/archive.ts`, `varde/apps/api/src/modules/privacy/prisma-snapshot-store.ts`, `varde/apps/api/src/cli/archive.ts`, `varde/apps/api/test/exports/round-archive.test.ts`, `varde/apps/api/test/exports/round-archive-format.test.ts`; ADR-017/020/021 |
 | Дизайн и движение (Vardestien) | `docs/varde/design/README.md`, `docs/varde/design/vardestien/`, `varde/apps/runner/src/landscape/landscape.ts`, `varde/apps/runner/src/scene.ts`, `varde/apps/runner/e2e/motion.spec.ts`, `varde/packages/ui/src/motion.ts`, `varde/packages/ui/src/tokens.css`, `varde/packages/ui/src/base.css`, PRINCIPLES «Визуальный стиль», `docs/varde/STAGES.md` 1e |
 | Правила выводов (FindingRule): версии, предпросмотр, страница «Funn» | `varde/apps/api/src/modules/findings/` (`finding-rule.ts`, `findings.service.ts` — сохранённые Finding release и `finding_set`, `rule-versions.service.ts`, `rule-preview.service.ts`, `rule-choices.ts`, `explain.ts`, `leader-rules.ts`), `varde/apps/api/src/modules/dashboard/leader-view.ts`, `varde/config/seed/findings/`, `varde/apps/api/test/findings/`, `varde/apps/api/test/reports/client-report-versions.test.ts`, `varde/apps/api/src/modules/exports/round-archive.ts` (`finding_sets`), `varde/apps/admin/src/funn-page.tsx`, `varde/apps/admin/src/funn-editor.tsx`, `varde/apps/admin/src/funn-preview.tsx`, `varde/apps/admin/src/funn-fields.tsx`, `varde/apps/admin/src/funn-models.ts`, `varde/apps/admin/e2e/funn.spec.ts`; ADR-020/021/026 |
-| Семинары: сущности, админка, статус Finding, Action (3.1) | `varde/apps/api/src/modules/seminars/` (`seminars.service.ts`, `seminars.controller.ts`, `seminar-input.ts`, `finding-status.service.ts`, `when.ts`), `varde/apps/api/prisma/schema.prisma` (Seminar … FindingStatus), `varde/apps/admin/src/seminar-page.tsx`, `seminar-view.tsx`, `seminar-form.tsx`, `seminar-models.ts`, `varde/apps/api/test/seminars/seminars.test.ts`, `varde/apps/admin/test/seminar.test.tsx`, `docs/varde/design/vardestien/admin.js` (`PAGES.seminar`); ADR-009/017/021 |
+| Семинары: сущности, админка, статус Finding, Action (3.1) | `varde/apps/api/src/modules/seminars/` (`seminars.service.ts`, `seminars.controller.ts`, `seminar-input.ts`, `finding-status.service.ts`, `when.ts`), `varde/apps/api/prisma/schema.prisma` (Seminar … FindingStatus), `varde/apps/admin/src/seminar-page.tsx`, `seminar-view.tsx`, `seminar-form.tsx`, `seminar-participants.tsx` (namneliste, правка контакта, «Fjern påmelding»), `seminar-models.ts`, `varde/apps/api/test/seminars/seminars.test.ts`, `varde/apps/admin/test/seminar.test.tsx`, `docs/varde/design/vardestien/admin.js` (`PAGES.seminar`); ADR-009/017/021 |
 | Участники семинара (Contact, Registration): чтение, retention, удаление по запросу | `varde/apps/api/src/modules/privacy/participants.ts` (единственный путь, lint `privacy-only-release`), `varde/apps/api/src/modules/retention/run.service.ts`, `forget.service.ts`, `ledger.ts`, `varde/config/retention.json`, `varde/apps/api/test/seminars/participants.test.ts`, `varde/apps/api/test/invariants/3a-participants.test.ts`, `docs/varde/RETENTION.md`; ADR-017/021 |
 | Страница регистрации `/s?c=` и ICS (3.2) | `varde/apps/runner/seminar.html`, `varde/apps/runner/src/seminar/`, `varde/apps/api/src/modules/seminars/public-seminar.service.ts`, `public-seminar.controller.ts`, `consent.ts`, `ics.ts`, `varde/apps/api/src/runner/static.ts`, `varde/apps/api/src/logging/request-log.ts`, `varde/config/quotas.json`, `varde/apps/api/test/seminars/registration.test.ts`, `ics.test.ts`, `texts.test.ts`, `varde/apps/runner/test/seminar.test.tsx`, `varde/apps/runner/e2e/seminar.spec.ts`; ADR-009/019 |
 | Материалы семинара и пакет приглашения (3.3, 3.10) | `varde/apps/api/src/modules/seminars/materials.service.ts`, `materials.controller.ts`, `invitation.ts`, `invitation.service.ts`, `invitation.controller.ts`, `varde/apps/api/src/modules/rounds/poster.ts` (`qrSvg`), `varde/apps/admin/src/seminar-materials.tsx`, `seminar-invitation.tsx`, `varde/apps/api/test/seminars/materials.test.ts`, `invitation.test.ts`, `invitation-texts.test.ts`, `varde/apps/admin/e2e/seminar.spec.ts` |
